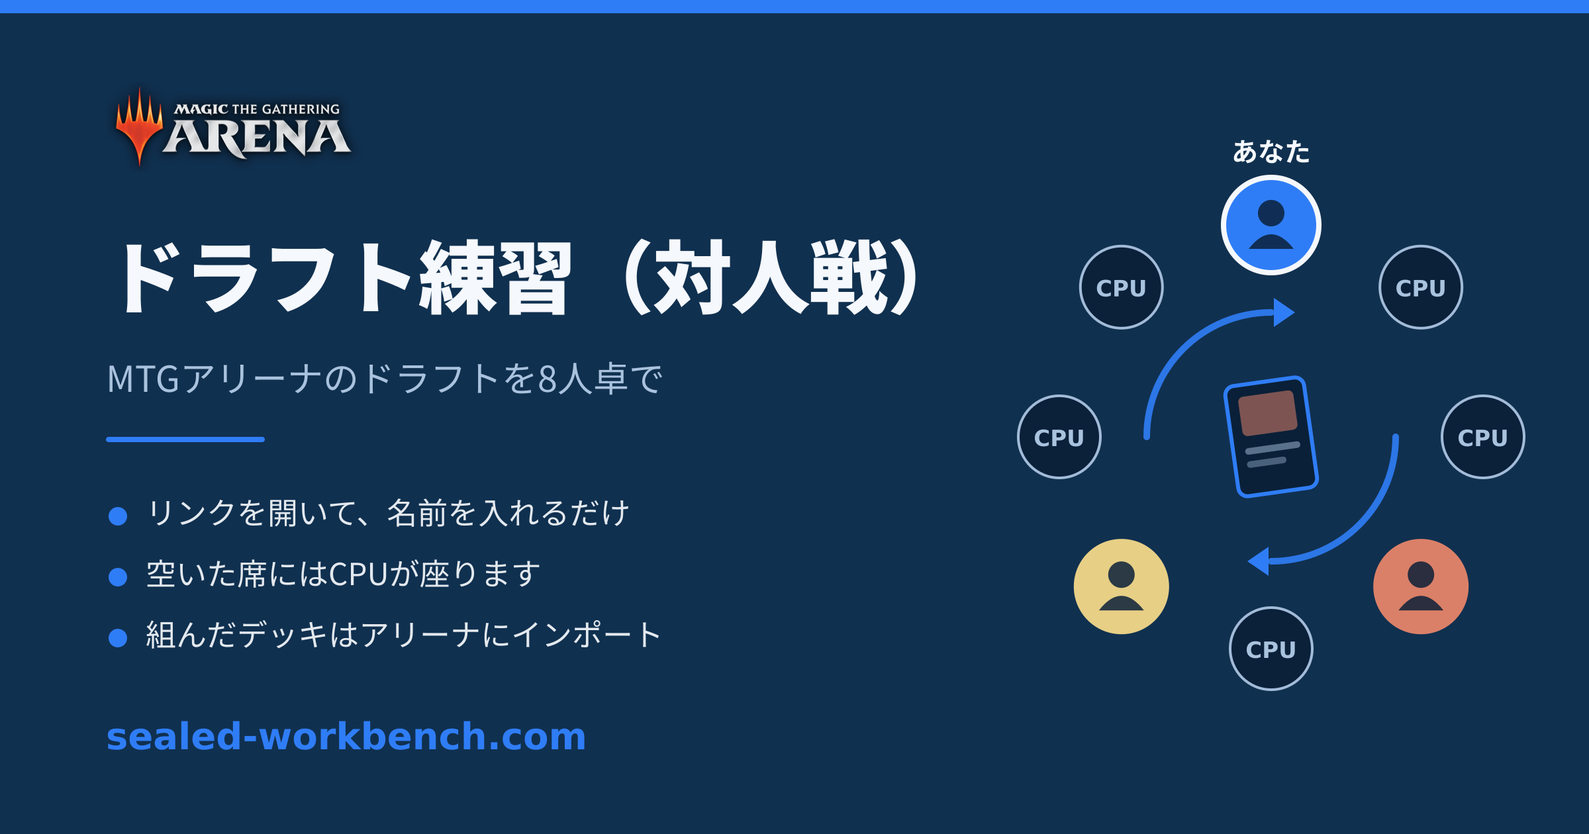
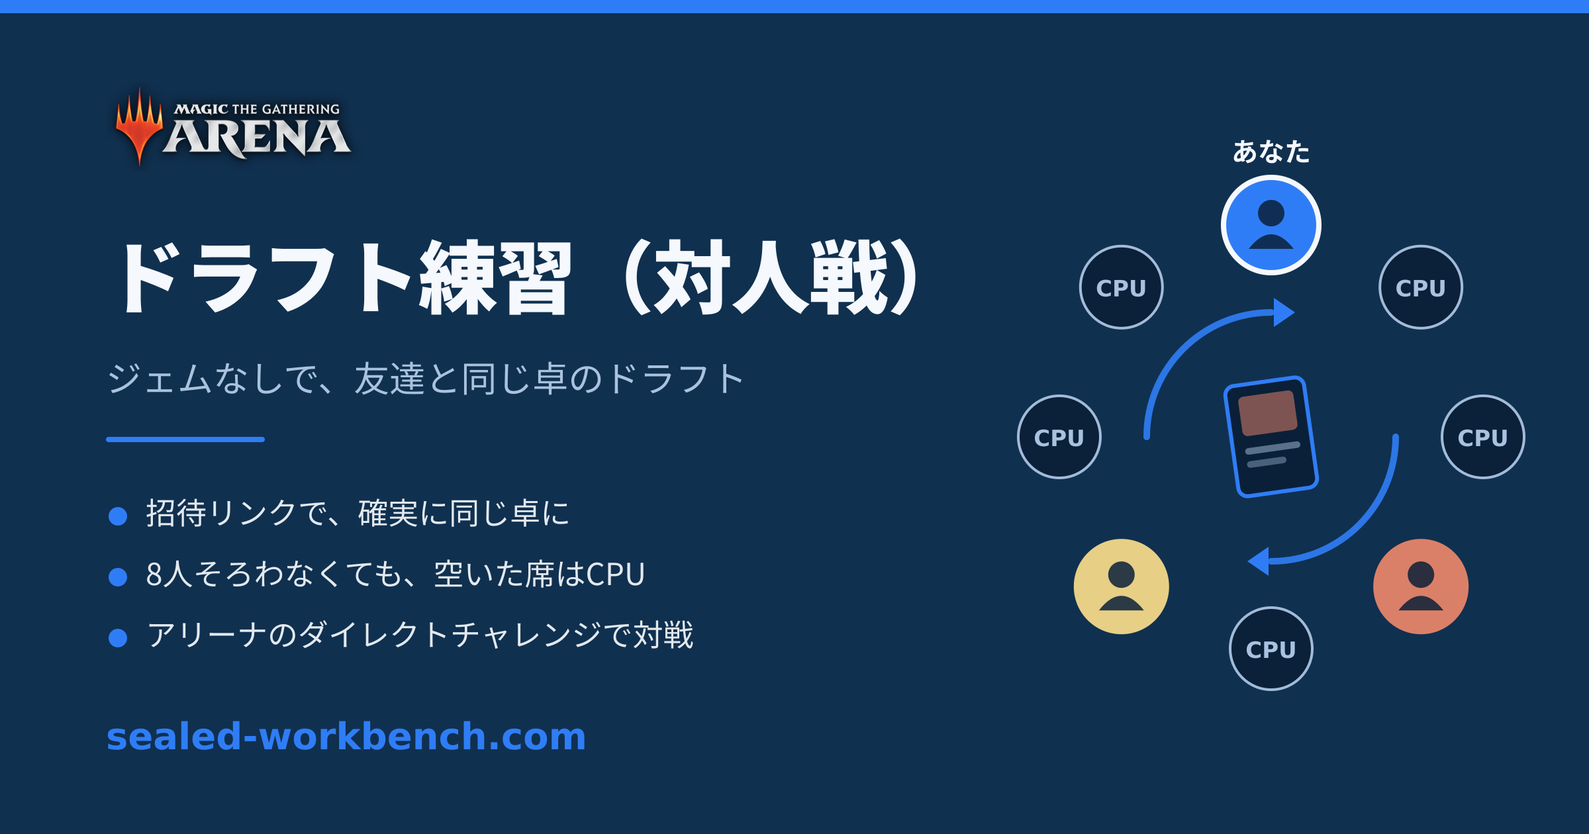
why

Changed region(s): [[0.0938, 0.5881, 0.4062, 0.7119], [0.0625, 0.4333, 0.4688, 0.4952], [0.0938, 0.7429, 0.4375, 0.7738]]

diff --git a/i18n.js b/i18n.js
@@ -94,13 +94,12 @@
     "err.scryfall":     { ja:"Scryfall への接続に失敗しました（HTTP {s}）", en:"Could not reach Scryfall (HTTP {s})" },
 
     /* ---- シールド構築 ---- */
-    "page.index.title": { ja:"シールド構築｜MTGアリーナのシールド戦を練習できる無料ツール",
-                          en:"Sealed builder — Free MTG Arena sealed practice" },
+    "page.index.title": { ja:"シールド練習｜MTGアリーナのシールド戦を練習できる無料ツール",
+                          en:"Sealed practice — Free MTG Arena Sealed practice tool" },
     "desc.index":       { ja:"マジック：ザ・ギャザリング アリーナのリミテッド（シールド戦）を無料で練習。6パックを開封して40枚デッキを組み、そのままアリーナにインポートできるテキストを書き出します。17Landsの実戦データによるカード勝率つき。日本語対応。",
                           en:"Free sealed practice for Magic: The Gathering Arena Limited. Open six packs, build a 40-card deck, and export text you can import straight into Arena. Includes real card win rates from 17Lands data." },
-    "index.h1":         { ja:"シールド構築", en:"Sealed builder" },
-    "index.lead":       { ja:"6パック分のカードプールを生成して40枚デッキを組み、マジック：ザ・ギャザリング アリーナにそのまま貼り付けられるテキストを書き出します。",
-                          en:"Open six packs, build a 40-card deck, and export text you can paste straight into Magic: The Gathering Arena." },
+    "index.h1":         { ja:"シールド練習", en:"Sealed practice" },
+    "index.lead":       { ja:"ジェムを使わずに、6パックを開けてシールドを何度でも練習できます。", en:"Practise Sealed as often as you like without spending gems: open six packs and build a 40-card deck." },
     "tip.alt":          { ja:"ドラフトの勝率です（シールドは試合数が少ないため、参考値として表示しています）。", en:"This is the Draft win rate — Sealed has too few games for this card, so it is shown as a reference." },
     "tip.bomb":         { ja:"このセットの平均より5ポイント以上高い、特に強いカードです。", en:"At least 5 points above this set's average — a standout card." },
     "save.hist":        { ja:"過去のプール履歴（{n}件）", en:"Pool history ({n})" },
@@ -134,8 +133,8 @@
     "desc.draft":       { ja:"マジック：ザ・ギャザリング アリーナのドラフトを、CPU 7人と8人卓で練習できる無料ツール。CPUは17Landsの勝率データをもとにピックします。3パック42手を終えたらデッキを組み、アリーナにインポートできます。",
                           en:"Free draft practice for Magic: The Gathering Arena against seven CPU drafters at an eight-seat table. The CPUs pick using 17Lands win-rate data. Finish 42 picks, build your deck, and import it into Arena." },
     "draft.h1":         { ja:"ドラフト練習（CPU戦）", en:"Draft practice (vs CPU)" },
-    "draft.lead":       { ja:"CPU 7人と8人卓のドラフトを練習し、組んだデッキをマジック：ザ・ギャザリング アリーナに貼り付けられるテキストで書き出します。",
-                          en:"Draft against seven CPU players at an eight-seat table, then export the deck as text you can paste into Magic: The Gathering Arena." },
+    "draft.lead":       { ja:"ジェムを使わずに、CPU 7人と8人卓のドラフトを何度でも練習できます。", en:"Practise Draft against seven CPUs as often as you like, without spending gems." },
+    "perks.arena":      { ja:"<li>組んだデッキはアリーナにインポート（足りないカードはワイルドカードで）</li><li>アリーナのダイレクトチャレンジで、友達と対戦</li>", en:"<li>Import the deck into Arena (craft missing cards with wildcards)</li><li>Play your friends with Arena's Direct Challenge</li>" },
     "draft.start":      { ja:"ドラフト開始", en:"Start draft" },
     "draft.ready":      { ja:"セットを選んで「ドラフト開始」を押してください。",
                           en:"Choose a set and press “Start draft”." },
@@ -208,7 +207,7 @@
     "cat.begin.lead":          { ja:"MTGが初めての方へ。ゲームの基本と、リミテッドの遊び方を説明します。", en:"New to Magic? Start with the basics of the game and how Limited works." },
     "page.cat.practice.title": { ja:"仮想パックで練習する｜シールド・ドラフトを無料で練習", en:"Practice with virtual packs — Free Sealed and Draft practice" },
     "desc.cat.practice":       { ja:"仮想パックを開けて、MTGアリーナのシールドとドラフトを無料で練習できます。組んだデッキはアリーナに貼り付けられます。", en:"Open virtual packs and practise MTG Arena Sealed and Draft for free. Paste the deck you build straight into Arena." },
-    "cat.practice.lead": { ja:"仮想パックを開けて、シールドとドラフトを無料で練習できます。", en:"Open virtual packs and practise Sealed and Draft for free." },
+    "cat.practice.lead": { ja:"ジェムを使わずに、シールドとドラフトを何度でも練習できます。組んだデッキはアリーナにインポートして、ダイレクトチャレンジで友達と対戦できます。", en:"Practise Sealed and Draft as often as you like, without spending gems. Import your deck into Arena and play your friends with Direct Challenge." },
     "page.cat.arena.title":    { ja:"MTGアリーナで使う｜実戦のログを読むシールド補助・ドラフト補助", en:"Use with MTG Arena — Sealed and Draft assistants that read your log" },
     "desc.cat.arena":          { ja:"MTGアリーナの詳細ログを読み取り、実戦のシールドやドラフト中に、デッキ案やおすすめのカードを出すPC用の無料ツールです。", en:"Free PC tools that read MTG Arena's detailed log and suggest decks and picks while you play Sealed or Draft." },
     "cat.arena.lead":          { ja:"アリーナの詳細ログを読み取り、実戦中に助けます。PCのChromeまたはEdgeで使えます。", en:"Reads Arena's detailed log and helps you during real events. Works in Chrome or Edge on PC." },
@@ -230,11 +229,11 @@
     "cat.why.2.p":      { ja:"組んだデッキはテキストでコピーして、アリーナにインポートできます。持っていないカードはワイルドカードで作れるので、ワイルドカードがあれば無料です。", en:"Copy the deck you built as text and import it into Arena. Cards you don't own can be crafted with wildcards, so if you have the wildcards it costs nothing." },
     "cat.why.3.h":      { ja:"アリーナで対戦", en:"Play in Arena" },
     "cat.why.3.p":      { ja:"取り込んだデッキで、アリーナのダイレクトチャレンジを使ってほかのプレイヤーと対戦できます。ワイルドカードが足りないときは、<a href=\"./table.html\">対戦卓</a>でも遊べます。", en:"Use Arena's Direct Challenge to play other players with the imported deck. Short of wildcards? You can also play on our <a href=\"./table.html\">play table</a>." },
-    "cat.desc.room":    { ja:"招待リンクで集まった人と8人卓のドラフト（空いた席はCPU）。完成したデッキをアリーナに取り込めば、ダイレクトチャレンジで対戦できます。", en:"Draft at an 8-seat table with anyone who opens your invite link (CPUs fill empty seats). Import your decks into Arena and play each other with Direct Challenge." },
     "page.room.title":  { ja:"ドラフト練習（対人戦）｜MTGアリーナのドラフトを8人卓で（空き席はCPU）", en:"Draft practice (vs players) — MTG Arena drafts at an 8-seat table (CPUs fill empty seats)" },
-    "desc.room":        { ja:"招待リンクを送るだけで、最大8人でドラフトができる無料ツール。友達はもちろん、SNSで募集した人とも遊べます。空いた席はCPUが埋めます。終わったらデッキを組んで、MTGアリーナに貼り付けられるテキストで書き出せます。", en:"A free tool for drafting with up to eight players — just send an invite link, to friends or to anyone you find on social media. CPUs fill the empty seats. Afterwards, build your deck and export it as text you can paste into MTG Arena." },
+    "desc.room":        { ja:"ジェムを使わずに、友達と確実に同じ卓でMTGアリーナのドラフトができる無料ツール。8人そろわなくても、空いた席はCPUが埋めます。組んだデッキはアリーナにインポートして、ダイレクトチャレンジで対戦できます。", en:"A free tool for drafting MTG Arena sets at the same table as your friends, without spending gems. CPUs fill any empty seats. Import your decks into Arena and play each other with Direct Challenge." },
     "room.h1":          { ja:"ドラフト練習（対人戦）", en:"Draft practice (vs players)" },
-    "room.lead":        { ja:"招待リンクで集まった人と8人卓のドラフト。空いた席にはCPUが座ります。", en:"Draft at an 8-seat table with anyone who opens your invite link. CPUs fill the empty seats." },
+    "room.lead":        { ja:"ジェムを使わずに、友達と同じ卓でドラフトができます。", en:"Draft at the same table as your friends, without spending gems." },
+    "perks.room":       { ja:"<li>招待リンクで、確実に同じ卓に（アリーナでは卓を選べません）</li><li>8人そろわなくても、空いた席はCPUが埋めます</li><li>組んだデッキはアリーナへ。ダイレクトチャレンジで対戦</li>", en:"<li>The invite link puts everyone at one table (Arena can't)</li><li>Fewer than eight? CPUs fill the empty seats</li><li>Take your decks to Arena and play with Direct Challenge</li>" },
     "room.namePh":      { ja:"あなたの名前", en:"Your name" },
     "room.nameLabel":   { ja:"あなたの名前（ほかの参加者に表示されます）", en:"Your name (shown to the other players)" },
     "room.howto":       { ja:"<b>遊び方</b>：「部屋を作る」を押すと招待リンクができます。リンクを友達に送ったり、XなどのSNSで参加者を募ったりすると、同じ卓で最大8人のドラフトができます。8人に足りない席にはCPUが座るので、少ない人数でも遊べます。全員が1枚ずつ選んだら、パックを一斉に隣へ回します。3パック（42手）を終えると、デッキを組んでアリーナ用のテキストで書き出せます。", en:"<b>How it works</b>: press “Create a room” to get an invite link. Send it to friends or share it on social media, and up to eight players draft at the same table. CPUs take any empty seats, so a few players are enough. Once everyone has picked a card, the packs pass together. After three packs (42 picks), build your deck and export it as Arena text." },
@@ -307,9 +306,7 @@
     "top.lead":  { ja:"シールド・ドラフトの練習から、17Landsの実戦データによる環境レポートまで。すべて無料、登録も不要です。", en:"From Sealed and Draft practice to set reports built on 17Lands data. All free, no account needed." },
     "top.go":    { ja:"開く →", en:"Open →" },
     "top.c1.k":  { ja:"仮想パックで練習", en:"PRACTICE" },
-    "top.c1.d":         { ja:"6パックを開けて40枚のデッキを組みます。完成したデッキは、そのままアリーナにインポートできます。", en:"Open six packs and build a 40-card deck. Import the finished deck straight into Arena." },
     "top.c2.k":  { ja:"仮想パックで練習", en:"PRACTICE" },
-    "top.c2.d":         { ja:"CPU 7人と8人卓のドラフトを練習します。完成したデッキは、そのままアリーナにインポートできます。", en:"Draft against 7 CPU players at an 8-seat table. Import the finished deck straight into Arena." },
     "top.c3.k":  { ja:"データを見る", en:"DATA" },
     "top.c3.d":  { ja:"セットごとの強い色・速さ・ボムのレアなどを、実戦データで確認できます。", en:"See the strongest colours, the speed and the bomb rares of each set, backed by real match data." },
     "top.latest.h": { ja:"最新のセットの環境レポート", en:"Latest set reports" },

diff --git a/draftroom.html b/draftroom.html
@@ -10,9 +10,9 @@
 <meta name="robots" content="index,follow">
 <meta property="og:type" content="website">
 <meta property="og:site_name" content="MTG Arena Limited Workbench">
-<meta name="description" content="招待リンクを開いて名前を入れるだけで、8人卓のドラフトができます。空いた席にはCPUが座ります。登録不要・無料。組んだデッキはMTGアリーナにインポートできます。">
-<meta property="og:title" content="ドラフト練習（対人戦）｜MTGアリーナのドラフトを8人卓で">
-<meta property="og:description" content="招待リンクを開いて名前を入れるだけで参加できます。空いた席にはCPUが座ります。登録不要・無料。">
+<meta name="description" content="ジェムを使わずに、友達と確実に同じ卓でMTGアリーナのドラフトができる無料ツール。8人そろわなくても、空いた席はCPUが埋めます。組んだデッキはアリーナにインポートして、ダイレクトチャレンジで対戦できます。">
+<meta property="og:title" content="ドラフト練習（対人戦）｜ジェムなしで、友達と同じ卓のドラフト">
+<meta property="og:description" content="招待リンクで、確実に同じ卓に。8人そろわなくても空いた席はCPU。組んだデッキはMTGアリーナへ、ダイレクトチャレンジで対戦。登録不要・無料。">
 <meta property="og:url" content="https://sealed-workbench.com/draftroom">
 <meta property="og:image" content="https://sealed-workbench.com/ogp-room-ja.png">
 <meta property="og:image:width" content="1200">
@@ -298,6 +298,12 @@
   .rm-card p:last-child,.rm-note p:last-child{margin:0}
   .rm-note{background:var(--paper-2);border-left:4px solid var(--gold);border-radius:4px;padding:12px 16px;margin:0 0 14px}
   @media (max-width:720px){ .readmore{padding:4px 14px 28px} .rm-steps,.rm-grid{grid-template-columns:1fr} }
+  /* なぜアリーナではなくここで練習するか（見出しの下） */
+  header ul.perks{list-style:none;margin:10px 0 0;padding:0;display:flex;flex-wrap:wrap;gap:6px 8px;max-width:90ch}
+  header ul.perks li{font-size:12.5px;line-height:1.4;color:#E6EEF7;background:rgba(255,255,255,.08);border:1px solid rgba(255,255,255,.16);border-radius:999px;padding:4px 11px 4px 9px}
+  header ul.perks li::before{content:"✓";color:#7FB6FF;font-weight:700;margin-right:6px}
+  header p:has(+ ul.perks){min-height:0}
+  @media (max-width:640px){ header ul.perks li{font-size:12px} }
   /* 友達とドラフト */
   .room-card{background:#fff;border:1px solid var(--line);border-radius:var(--radius);padding:16px 18px;margin-bottom:16px}
   .room-card h4{margin:0 0 10px;font-size:13px;color:var(--muted);font-weight:700}
@@ -369,7 +375,8 @@
     <div class="head-top">
       <div>
         <h1 data-i18n="room.h1">ドラフト練習（対人戦）</h1>
-        <p data-i18n="room.lead">招待リンクで集まった人と8人卓のドラフト。空いた席にはCPUが座ります。</p>
+        <p data-i18n="room.lead">ジェムを使わずに、友達と同じ卓でドラフトができます。</p>
+        <ul class="perks" data-i18n-html="perks.room"></ul>
       </div>
       <div class="controls">
         <label class="toggle"><input type="checkbox" id="wrToggle" checked><span data-i18n="opt.wr" data-i18n-title="wr.gih.tip">勝率を表示</span></label>

diff --git a/practice.html b/practice.html
@@ -210,6 +210,9 @@
   .rm-card p:last-child,.rm-note p:last-child{margin:0}
   .rm-note{background:var(--paper-2);border-left:4px solid var(--gold);border-radius:4px;padding:12px 16px;margin:0 0 14px}
   @media (max-width:720px){ .rm-steps,.rm-grid{grid-template-columns:1fr} }
+  .bigcard ul.perks{list-style:none;margin:2px 0 0;padding:0;font-size:12.5px;line-height:1.6;color:var(--ink)}
+  .bigcard ul.perks li{padding-left:18px;position:relative}
+  .bigcard ul.perks li::before{content:"✓";position:absolute;left:2px;color:var(--gold);font-weight:700}
 </style>
 <script async src="https://pagead2.googlesyndication.com/pagead/js/adsbygoogle.js?client=ca-pub-4578393433821297" crossorigin="anonymous"></script>
 </head>
@@ -252,9 +255,9 @@
 <main>
   <section>
     <div class="big">
-      <a class="bigcard" href="./sealed.html"><span class="k" data-i18n="navgrp.build">仮想パックで練習する</span><b><span data-i18n="nav.sealed">シールド練習</span></b><span class="d" data-i18n="top.c1.d"></span><span class="go" data-i18n="top.go">開く →</span></a>
-      <a class="bigcard" href="./draft.html"><span class="k" data-i18n="navgrp.build">仮想パックで練習する</span><b><span data-i18n="nav.draft">ドラフト練習（CPU戦）</span></b><span class="d" data-i18n="top.c2.d"></span><span class="go" data-i18n="top.go">開く →</span></a>
-      <a class="bigcard" href="./draftroom.html"><span class="k" data-i18n="navgrp.build">仮想パックで練習する</span><b><span data-i18n="nav.room">ドラフト練習（対人戦）</span></b><span class="d" data-i18n="cat.desc.room"></span><span class="go" data-i18n="top.go">開く →</span></a>
+      <a class="bigcard" href="./sealed.html"><span class="k" data-i18n="navgrp.build">仮想パックで練習する</span><b><span data-i18n="nav.sealed">シールド練習</span></b><span class="d" data-i18n="index.lead"></span><ul class="perks" data-i18n-html="perks.arena"></ul><span class="go" data-i18n="top.go">開く →</span></a>
+      <a class="bigcard" href="./draft.html"><span class="k" data-i18n="navgrp.build">仮想パックで練習する</span><b><span data-i18n="nav.draft">ドラフト練習（CPU戦）</span></b><span class="d" data-i18n="draft.lead"></span><ul class="perks" data-i18n-html="perks.arena"></ul><span class="go" data-i18n="top.go">開く →</span></a>
+      <a class="bigcard" href="./draftroom.html"><span class="k" data-i18n="navgrp.build">仮想パックで練習する</span><b><span data-i18n="nav.room">ドラフト練習（対人戦）</span></b><span class="d" data-i18n="room.lead"></span><ul class="perks" data-i18n-html="perks.room"></ul><span class="go" data-i18n="top.go">開く →</span></a>
     </div>
   </section>
   <section class="why">

diff --git a/index.html b/index.html
@@ -205,6 +205,9 @@
   .rm-card p:last-child,.rm-note p:last-child{margin:0}
   .rm-note{background:var(--paper-2);border-left:4px solid var(--gold);border-radius:4px;padding:12px 16px;margin:0 0 14px}
   @media (max-width:720px){ .rm-steps,.rm-grid{grid-template-columns:1fr} }
+  .bigcard ul.perks{list-style:none;margin:2px 0 0;padding:0;font-size:12.5px;line-height:1.6;color:var(--ink)}
+  .bigcard ul.perks li{padding-left:18px;position:relative}
+  .bigcard ul.perks li::before{content:"✓";position:absolute;left:2px;color:var(--gold);font-weight:700}
 </style>
 <script async src="https://pagead2.googlesyndication.com/pagead/js/adsbygoogle.js?client=ca-pub-4578393433821297" crossorigin="anonymous"></script>
 </head>
@@ -249,8 +252,8 @@
 <main>
   <section>
     <div class="big">
-      <a class="bigcard" href="./sealed.html"><span class="k" data-i18n="top.c1.k">PRACTICE</span><b data-i18n="nav.sealed">シールド練習</b><span class="d" data-i18n="top.c1.d"></span><span class="go" data-i18n="top.go">開く →</span></a>
-      <a class="bigcard" href="./draft.html"><span class="k" data-i18n="top.c2.k">PRACTICE</span><b data-i18n="nav.draft">ドラフト練習（CPU戦）</b><span class="d" data-i18n="top.c2.d"></span><span class="go" data-i18n="top.go">開く →</span></a>
+      <a class="bigcard" href="./sealed.html"><span class="k" data-i18n="top.c1.k">PRACTICE</span><b data-i18n="nav.sealed">シールド練習</b><span class="d" data-i18n="index.lead"></span><ul class="perks" data-i18n-html="perks.arena"></ul><span class="go" data-i18n="top.go">開く →</span></a>
+      <a class="bigcard" href="./draft.html"><span class="k" data-i18n="top.c2.k">PRACTICE</span><b data-i18n="nav.draft">ドラフト練習（CPU戦）</b><span class="d" data-i18n="draft.lead"></span><ul class="perks" data-i18n-html="perks.arena"></ul><span class="go" data-i18n="top.go">開く →</span></a>
       <a class="bigcard" href="./reports.html"><span class="k" data-i18n="top.c3.k">DATA</span><b data-i18n="nav.reports">環境レポート</b><span class="d" data-i18n="top.c3.d"></span><span class="go" data-i18n="top.go">開く →</span></a>
     </div>
   </section>

diff --git a/sealed.html b/sealed.html
@@ -336,6 +336,12 @@
   .rm-card p:last-child,.rm-note p:last-child{margin:0}
   .rm-note{background:var(--paper-2);border-left:4px solid var(--gold);border-radius:4px;padding:12px 16px;margin:0 0 14px}
   @media (max-width:720px){ .readmore{padding:4px 14px 28px} .rm-steps,.rm-grid{grid-template-columns:1fr} }
+  /* なぜアリーナではなくここで練習するか（見出しの下） */
+  header ul.perks{list-style:none;margin:10px 0 0;padding:0;display:flex;flex-wrap:wrap;gap:6px 8px;max-width:90ch}
+  header ul.perks li{font-size:12.5px;line-height:1.4;color:#E6EEF7;background:rgba(255,255,255,.08);border:1px solid rgba(255,255,255,.16);border-radius:999px;padding:4px 11px 4px 9px}
+  header ul.perks li::before{content:"✓";color:#7FB6FF;font-weight:700;margin-right:6px}
+  header p:has(+ ul.perks){min-height:0}
+  @media (max-width:640px){ header ul.perks li{font-size:12px} }
 </style>
 <script async src="https://pagead2.googlesyndication.com/pagead/js/adsbygoogle.js?client=ca-pub-4578393433821297" crossorigin="anonymous" data-overlays="bottom"></script>
 </head>
@@ -368,8 +374,9 @@
     </nav>
     <div class="head-top">
       <div>
-        <h1 data-i18n="index.h1">シールド構築</h1>
-        <p data-i18n="index.lead">6パック分のカードプールを生成して40枚デッキを組み、マジック：ザ・ギャザリング アリーナにそのまま貼り付けられるテキストを書き出します。</p>
+        <h1 data-i18n="index.h1">シールド練習</h1>
+        <p data-i18n="index.lead">ジェムを使わずに、6パックを開けてシールドを何度でも練習できます。</p>
+        <ul class="perks" data-i18n-html="perks.arena"></ul>
       </div>
       <div class="controls">
         <select id="setSelect" data-i18n-label="sel.set"><option value="">…</option></select>

diff --git a/draft.html b/draft.html
@@ -290,6 +290,12 @@
   .rm-card p:last-child,.rm-note p:last-child{margin:0}
   .rm-note{background:var(--paper-2);border-left:4px solid var(--gold);border-radius:4px;padding:12px 16px;margin:0 0 14px}
   @media (max-width:720px){ .readmore{padding:4px 14px 28px} .rm-steps,.rm-grid{grid-template-columns:1fr} }
+  /* なぜアリーナではなくここで練習するか（見出しの下） */
+  header ul.perks{list-style:none;margin:10px 0 0;padding:0;display:flex;flex-wrap:wrap;gap:6px 8px;max-width:90ch}
+  header ul.perks li{font-size:12.5px;line-height:1.4;color:#E6EEF7;background:rgba(255,255,255,.08);border:1px solid rgba(255,255,255,.16);border-radius:999px;padding:4px 11px 4px 9px}
+  header ul.perks li::before{content:"✓";color:#7FB6FF;font-weight:700;margin-right:6px}
+  header p:has(+ ul.perks){min-height:0}
+  @media (max-width:640px){ header ul.perks li{font-size:12px} }
 </style>
 <script async src="https://pagead2.googlesyndication.com/pagead/js/adsbygoogle.js?client=ca-pub-4578393433821297" crossorigin="anonymous" data-overlays="bottom"></script>
 </head>
@@ -323,7 +329,8 @@
     <div class="head-top">
       <div>
         <h1 data-i18n="draft.h1">ドラフト練習（CPU戦）</h1>
-        <p data-i18n="draft.lead">CPU 7人と8人卓のドラフトを練習し、組んだデッキをマジック：ザ・ギャザリング アリーナに貼り付けられるテキストで書き出します。</p>
+        <p data-i18n="draft.lead">ジェムを使わずに、CPU 7人と8人卓のドラフトを何度でも練習できます。</p>
+        <ul class="perks" data-i18n-html="perks.arena"></ul>
       </div>
       <div class="controls">
         <select id="setSelect" data-i18n-label="sel.set"><option value="">…</option></select>
